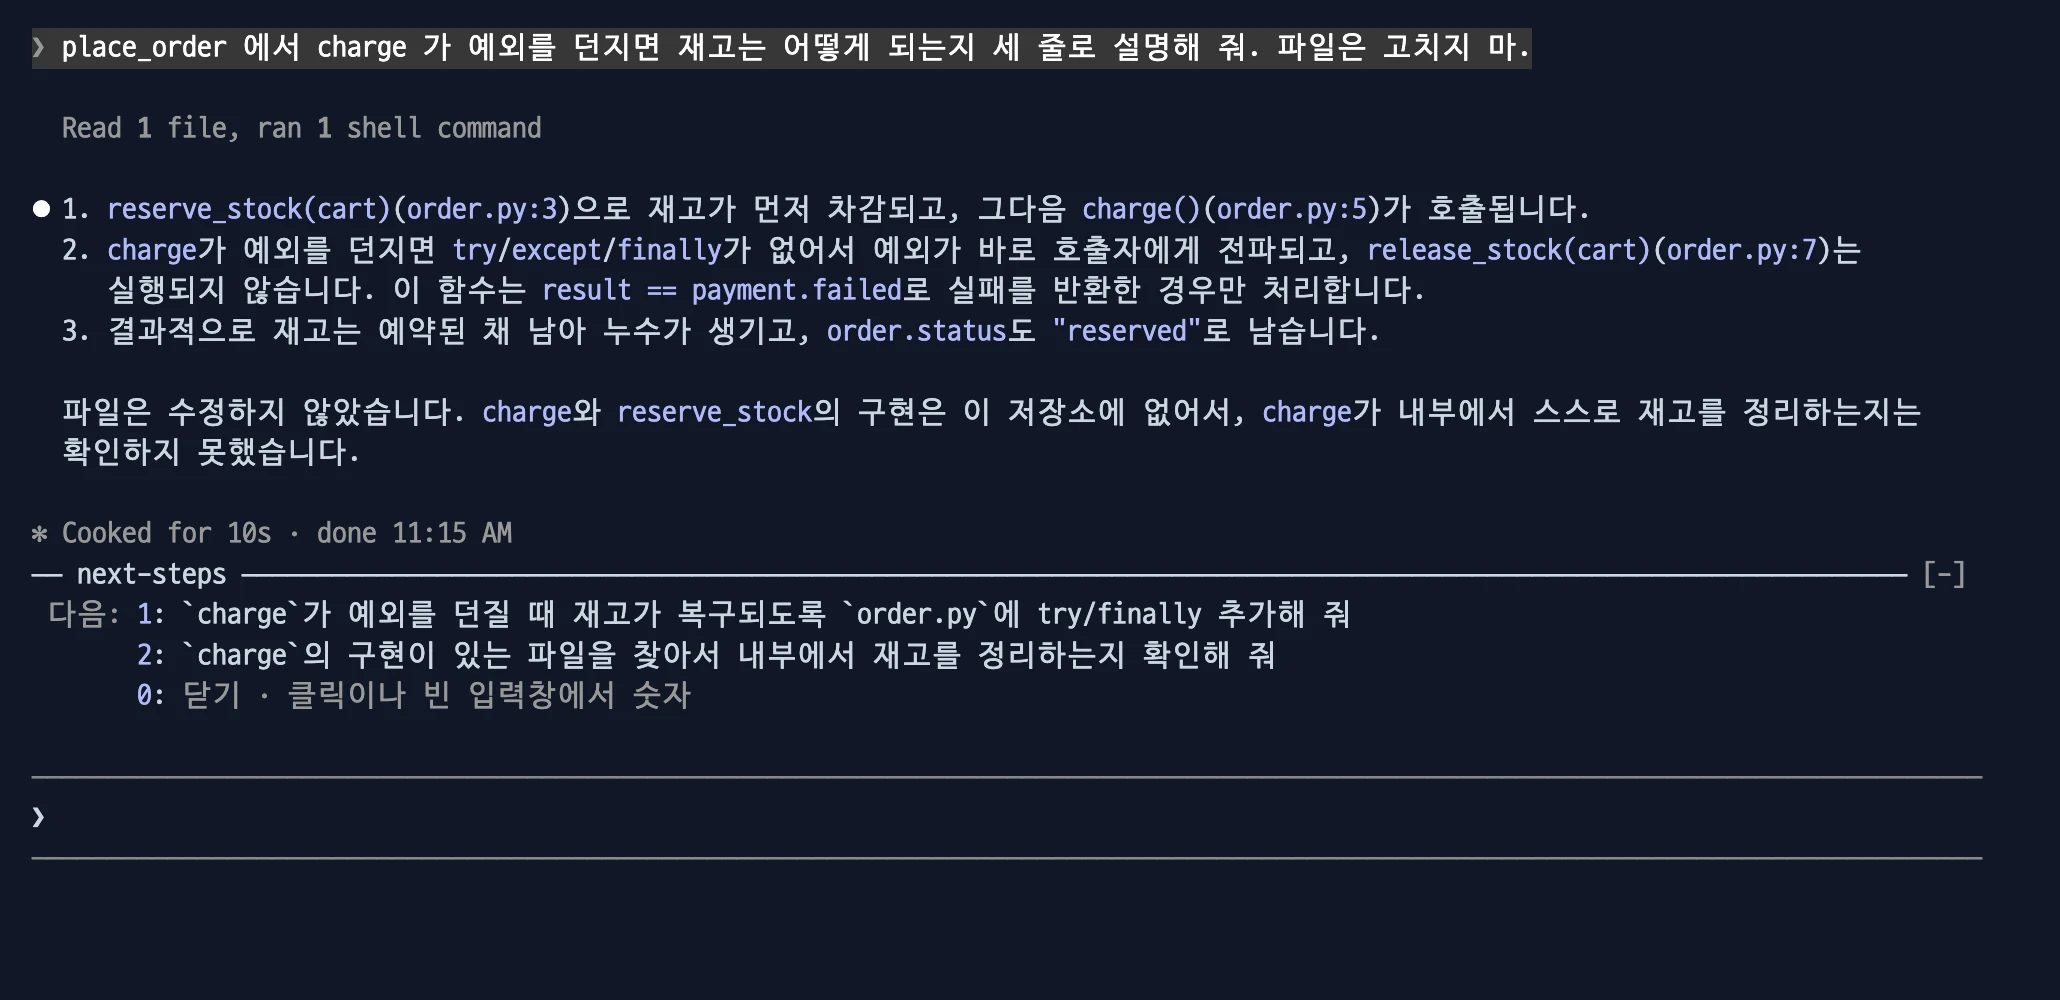
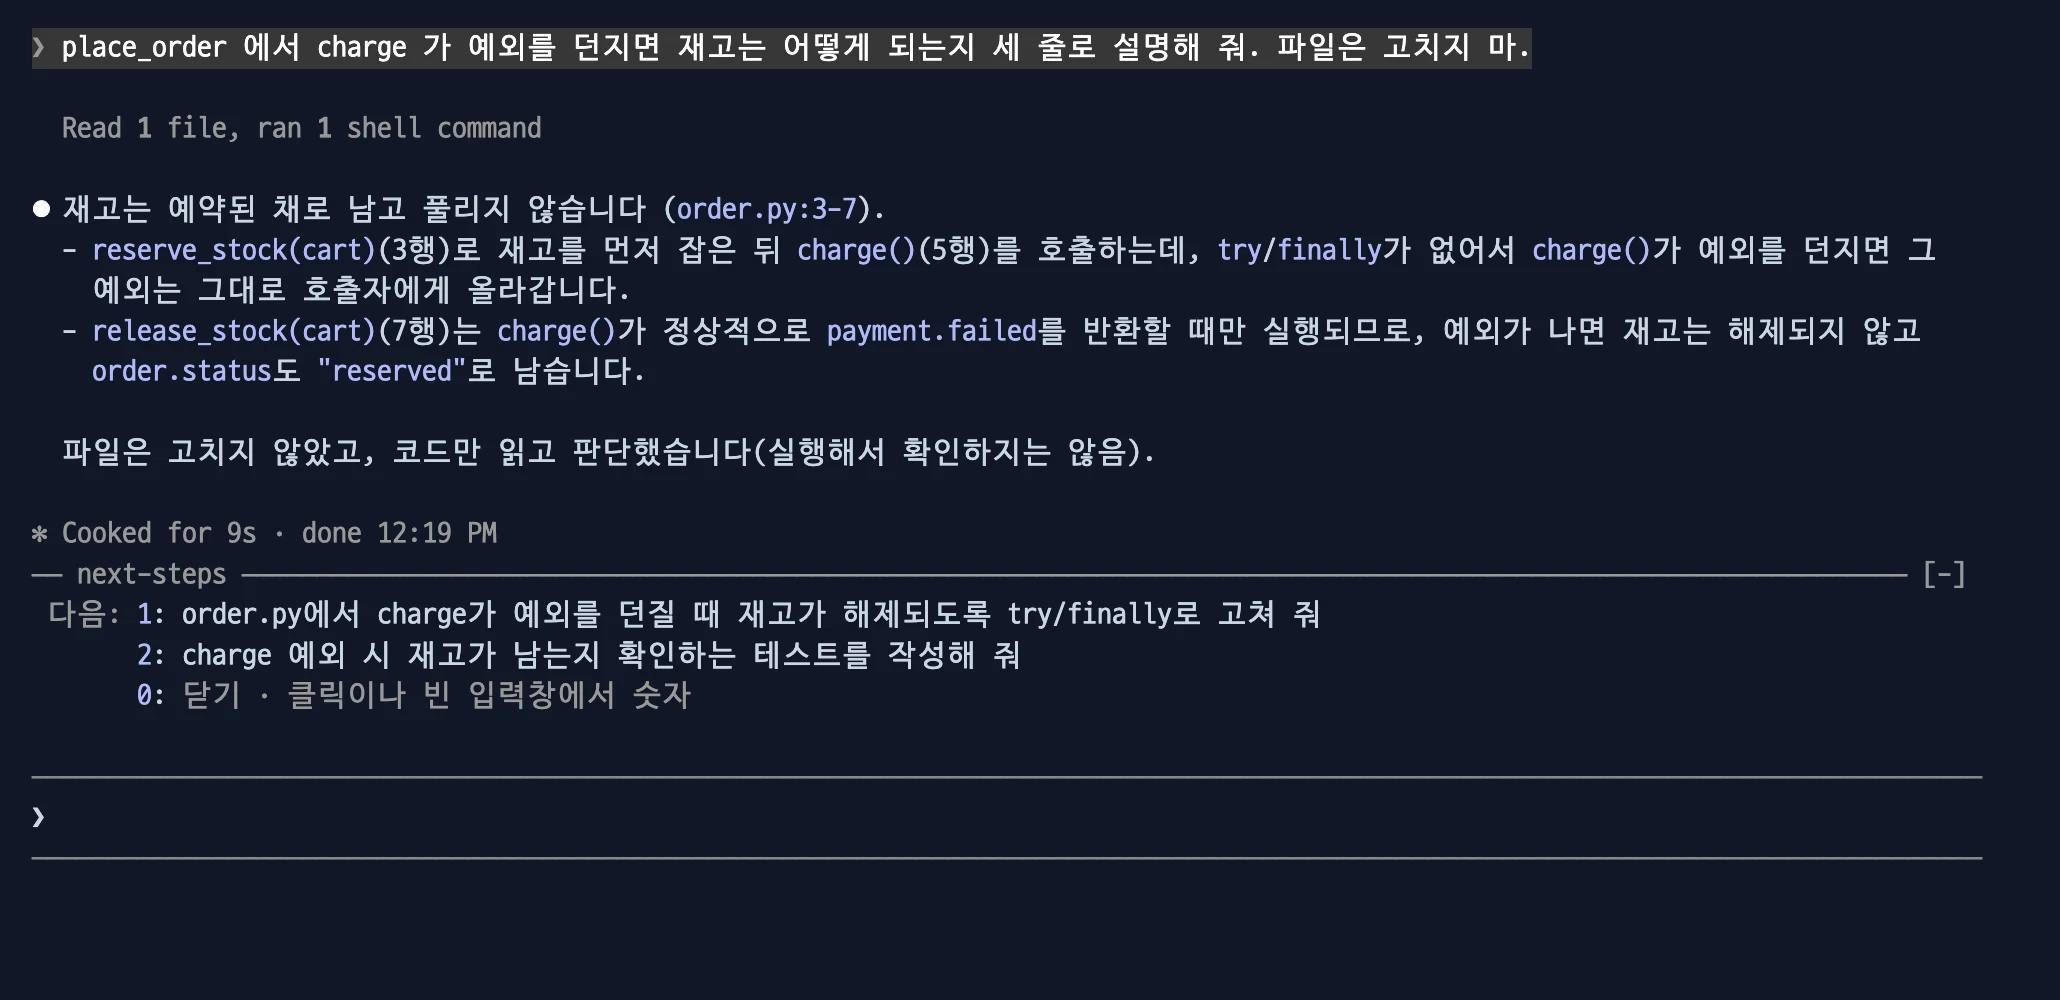
next-steps 0.3.5: keep the suggestions when a background subagent starts a turn; drop a late Haiku reply after /next off, checked inside the write so a submit or new turn in between also discards it; strip standalone inline-code backticks, code fences and duplicate lines from suggestions and ask the
Claude-Session: https://claude.ai/code/session_01KG1wdm83H9b3ZYoxyhJH2T

Changed region(s): [[0.0311, 0.186, 0.932, 0.465], [0.0311, 0.496, 0.6524, 0.682]]

diff --git a/next-steps/tests/next-steps.test.ts b/next-steps/tests/next-steps.test.ts
@@ -9,12 +9,16 @@ const settle = () => new Promise(r => (globalThis as any).setTimeout(r, 20))
 const LONG_ANSWER = 'README 의 설치 절을 고쳤고 테스트 48개가 모두 통과했습니다.'
 
 describe('steps (순수 함수)', () => {
-  test('번호·글머리·따옴표를 걷고 3개까지, NONE 이면 없음, 너무 긴 줄은 자르지 않고 버린다', async () => {
+  test('번호·글머리·따옴표·백틱을 걷고 3개까지, NONE 이면 없음, 너무 긴 줄은 자르지 않고 버린다', async () => {
     expect(parseSteps('1. 테스트를 다시 돌려 줘\n- `board.ts` 도 같은 검사를 넣어 줘\n"PR 초안을 만들어 줘"\n4) 네 번째')).toEqual([
       '테스트를 다시 돌려 줘',
-      '`board.ts` 도 같은 검사를 넣어 줘',
+      'board.ts 도 같은 검사를 넣어 줘',
       'PR 초안을 만들어 줘',
     ])
+    // 코드 울타리 줄은 버리고, 같은 제안은 한 번만 (T56)
+    expect(parseSteps('```\n`lst.sort()` 예제 보여줘\nlst.sort() 예제 보여줘\n```\n정렬 기준 설명해줘')).toEqual(['lst.sort() 예제 보여줘', '정렬 기준 설명해줘'])
+    // 단어에 붙은 백틱은 코드의 일부(태그 템플릿 등)라 그대로 둔다
+    expect(parseSteps('html`<p>` 태그 템플릿 테스트 추가해 줘')).toEqual(['html`<p>` 태그 템플릿 테스트 추가해 줘'])
     expect(parseSteps('NONE')).toEqual([])
     expect(parseSteps('\n\n')).toEqual([])
     expect(parseSteps('짧은 것\n' + 'x'.repeat(121))).toEqual(['짧은 것'])
@@ -36,6 +40,7 @@ describe('steps (순수 함수)', () => {
     expect(system).toContain('same language')
     expect(system).toContain('NONE')
     expect(system).toContain('under 60 characters')
+    expect(system).toContain('no Markdown')
   })
 })
 
@@ -274,8 +279,67 @@ describe('next-steps', () => {
     await settle()
     expect(toasts.join('\n')).toContain('api-error')
     const band = await $.ui.mount(BAND)
-    expect(await band.find({ type: 'Text', text: /0 닫기/ })).toBeUndefined()
+    // 닫기 줄과 가로줄도 없다. 번호 '0: ' 은 엔진이 그려 Text 로는 찾을 수 없다
+    expect(await band.find({ key: 'close' })).toBeUndefined()
+    expect(await band.find({ type: 'Text', text: /next-steps/ })).toBeUndefined()
     await band.unmount()
+  })
+
+  test('보조 에이전트의 턴 시작은 제안을 지우지 않는다. 늦게 온 답은 /next off·전송·새 턴 뒤면 버린다 (T56)', async ($, on) => {
+    mock.store(on)
+    on('session.start', ($, e) => ({ cwd: e.cwd }))
+    on('command.register', ($, e: any) => ({ value: { command: e.name } }))
+    on('agent.list', () => ({ value: [] }))
+    on('session.messages', () => ({ value: [] }))
+    // hold 면 release() 를 부를 때까지 답을 미룬다
+    let hold = false
+    let release = () => {}
+    on('model.complete', () => {
+      if (!hold) return { value: { isAnswered: true, text: '테스트를 다시 돌려 줘\nPR 초안을 만들어 줘', usage: USAGE } }
+      return new Promise(r => { release = () => r({ value: { isAnswered: true, text: '늦은 제안', usage: USAGE } }) })
+    })
+    on('turn.complete', () => ({ text: '' }))
+    on('turn.start', ($, e: any) => ({ turnId: e.turnId }))
+    on('prompt.submit', ($, e: any) => ({ text: e.text }))
+    on('ui.render', { component: 'AbovePrompt' }, ($, e: any) => $.ui.resolve(e).Text({ children: 'OTHER-MOD-BAND' }))
+    const complete = (turnId: string) => $.turn.complete({ reason: 'answer', answer: LONG_ANSWER, durationMs: 1, isAborted: false, turnId } as any)
+    const start = (turnId: string, agentId?: string) => $.turn.start({ text: '', turnId, ...(agentId ? { agentId } : {}) } as any)
+    const shows = async (re: RegExp) => {
+      const band = await $.ui.mount(BAND)
+      const found = await band.find({ type: 'Text', text: re })
+      await band.unmount()
+      return found !== undefined
+    }
+    // 답을 붙잡아 둔 채 턴을 끝내고, between 을 한 뒤 답을 보낸다
+    const lateAfter = async (turnId: string, between: () => Promise<unknown>) => {
+      hold = true
+      await complete(turnId)
+      await settle()
+      await between()
+      release()
+      await settle()
+      hold = false
+      return shows(/늦은 제안/)
+    }
+
+    await $.session.start({ surface: 'terminal', isInteractive: true, cwd: '/r' } as any)
+    await complete('t1')
+    await settle()
+    expect(await shows(/테스트를 다시 돌려 줘/)).toBe(true)
+    // 백그라운드 보조 에이전트가 깨어나 턴을 시작해도 메인 대화의 제안은 그대로
+    await start('s1', 'sub-1')
+    expect(await shows(/테스트를 다시 돌려 줘/)).toBe(true)
+    // 메인의 새 턴은 지운다
+    await start('t2')
+    expect(await shows(/테스트를 다시 돌려 줘/)).toBe(false)
+
+    // 만드는 동안 보조 에이전트 턴이 시작돼도 답은 버리지 않는다
+    expect(await lateAfter('t3', () => start('s2', 'sub-1'))).toBe(true)
+    // 만드는 동안 끄면 늦은 답은 버린다
+    expect(await lateAfter('t4', () => $.command.run({ command: 'next', args: 'off' } as any))).toBe(false)
+    await $.command.run({ command: 'next', args: 'on' } as any)
+    expect(await lateAfter('t5', () => $.prompt.submit({ text: '다른 걸 할게', origin: { kind: 'composer' } } as any))).toBe(false)
+    expect(await lateAfter('t6', () => start('t7'))).toBe(false)
   })
 })
 

diff --git a/next-steps/hooks/register.tsx b/next-steps/hooks/register.tsx
@@ -31,7 +31,10 @@ export const register: Register = on => {
     if (arg === 'on' || arg === 'off') {
       off = arg === 'off'
       await $.store.set(OFF_KEY, off)
-      if (off) await update($, steps, () => null)
+      if (off) {
+        latest = `off-${++submits}` // 만들고 있던 제안도 버린다 (T56)
+        await update($, steps, () => null)
+      }
       return { text: off ? '다음 요청 제안을 껐어요. 다시 켜려면 /next on' : '다음 요청 제안을 켰어요.' }
     }
     if (arg) return { text: '쓰는 법: /next (사용량) · /next on · /next off' }
@@ -48,6 +51,8 @@ export const register: Register = on => {
   })
 
   on('turn.start', async ($, e, next) => {
+    // 백그라운드 보조 에이전트가 깨어난 턴은 메인 대화의 제안과 무관하다 (T56)
+    if (e.agentId) return next(e)
     latest = e.turnId
     await update($, steps, () => null)
     return next(e)
@@ -80,7 +85,8 @@ export const register: Register = on => {
     const s = await read($, steps)
     // 받은 줄이 없으면 그리지 않는다. 그려서 넘치면 엔진이 "↓ n more" 에 한 줄을 더 써 위 띠까지 가려진다
     if (e.props.hasSurvey || e.props.isWorking || !s || s.items.length === 0 || e.props.maxRows < 1) return next(e)
-    // 줄이 모자라면 한 줄에 모은다. 가로줄 한 줄을 더 센다
+    // 줄이 모자라면 한 줄에 모은다. 펼친 목록은 가로줄 + 제안 + 닫기 줄 = items + 2 줄인데 items + 3 줄을 요구한다.
+    // 이 1줄 여유로 펼쳐도 안쪽 mod 에 1줄이 남는다(딱 맞으면 안쪽이 0줄이 되어 그리지 않는다). 0.1.0 부터 같은 여유 (T56 에서 확인)
     const oneRow = e.props.maxRows < s.items.length + 3
     // 이 띠의 줄 수(가로줄 + 제안 줄들 + 닫기 줄, 또는 가로줄 + 한 줄)를 먼저 떼고 남은 줄만 다른 mod 띠에 넘긴다.
     // 넘치면 엔진이 위부터 보여 줘 맨 아래인 이 띠가 가려진다. 이 mod 가 바깥이면 안쪽 team-board 가 남은 줄에 맞춰 줄어든다.
@@ -177,7 +183,6 @@ async function suggest($: EngineInterface, turnId: string, answer: string): Prom
     return
   }
   const items = parseSteps(r.text, r.usage.output_tokens >= MAX_TOKENS)
-  // 그사이 전송이나 새 턴이 왔으면 버린다
-  if (latest !== turnId) return
-  await update($, steps, () => (items.length > 0 ? { turnId, items } : null))
+  // 그사이 전송·새 턴·끄기가 왔으면 버린다. 쓰다가 겹치면 update 가 다시 부르므로 그 안에서 본다 (T56)
+  await update($, steps, cur => (latest !== turnId ? cur : items.length > 0 ? { turnId, items } : null))
 }

diff --git a/next-steps/hooks/steps.ts b/next-steps/hooks/steps.ts
@@ -20,7 +20,7 @@ export function buildRequest(history: readonly Message[], answer: string): { sys
     'You read the end of a coding session and predict what the person will type next to their coding assistant.',
     'Give 2 or 3 short, concrete follow-up requests, each an instruction under 60 characters, specific to what just happened (name the file, test or feature).',
     'Write them in the same language the person writes in. Keep file names, commands and code identifiers as they are.',
-    'One per line, no numbering, no quotes, nothing else. If nothing sensible follows, reply with the single word NONE.',
+    'One per line, no numbering, no quotes, nothing else. Plain text, no Markdown or backticks. If nothing sensible follows, reply with the single word NONE.',
   ].join('\n')
   const prompt = [
     `<transcript>\n${recent.map(m => `[${m.role === 'user' ? 'person' : 'assistant'}] ${m.text.slice(0, PER_MESSAGE)}`).join('\n')}\n</transcript>`,
@@ -31,14 +31,15 @@ export function buildRequest(history: readonly Message[], answer: string): { sys
 }
 
 /**
- * 모델 답을 제안 목록으로. 번호·글머리·감싼 따옴표를 걷고, NONE·빈 줄·너무 긴 줄은 버린다.
+ * 모델 답을 제안 목록으로. 번호·글머리·감싼 따옴표·인라인 코드 백틱을 걷고, NONE·빈 줄·코드 울타리 줄·너무 긴 줄·같은 줄은 버린다.
  * 출력 상한에 닿아 끝났으면(truncated) 마지막 줄은 잘렸을 수 있어 버린다. 잘린 초안은 반쪽짜리 요청이 된다.
  */
 export function parseSteps(text: string, truncated = false): string[] {
   const lines = text.trim().split('\n')
   if (truncated) lines.pop()
-  return lines
-    .map(line => line.trim().replace(/^(\d+[.)]|[-*•])\s+/, '').replace(/^["“](.*)["”]$/, '$1').trim())
+  const items = lines
+    .filter(line => !line.trim().startsWith('```'))
+    .map(line => line.trim().replace(/^(\d+[.)]|[-*•])\s+/, '').replace(/^["“](.*)["”]$/, '$1').replace(/(^|[^\w$`])`([^`]+)`(?![\w$`])/g, '$1$2').trim())
     .filter(line => line !== '' && line !== 'NONE' && line.length <= MAX_KEPT)
-    .slice(0, MAX_ITEMS)
+  return [...new Set(items)].slice(0, MAX_ITEMS)
 }
